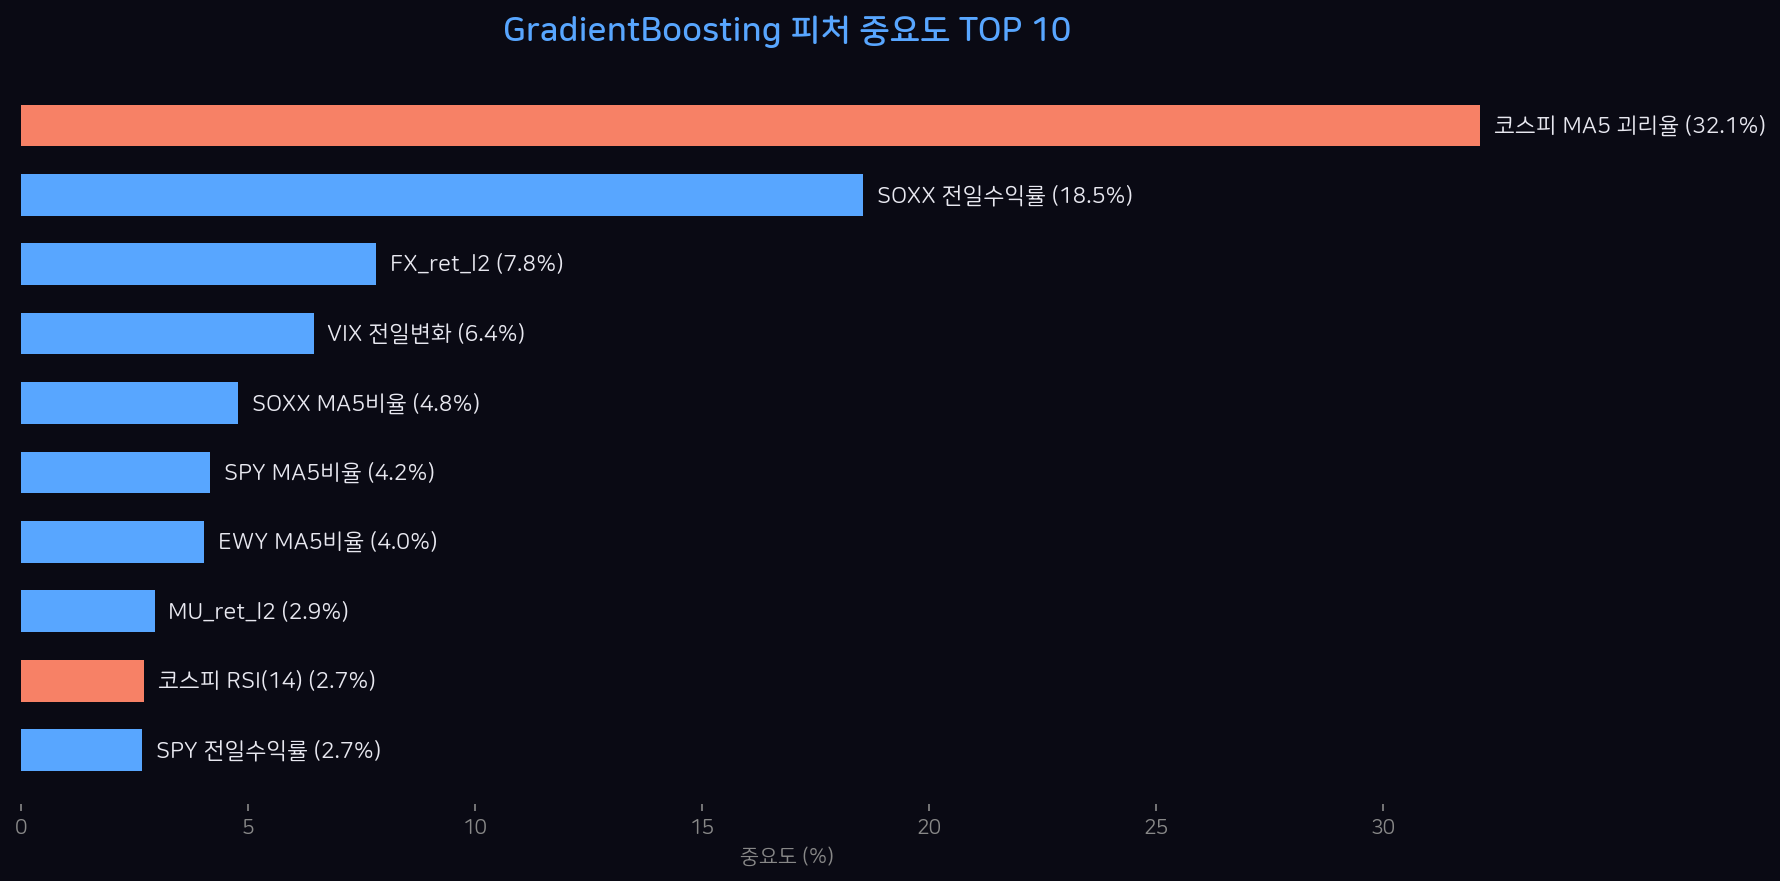
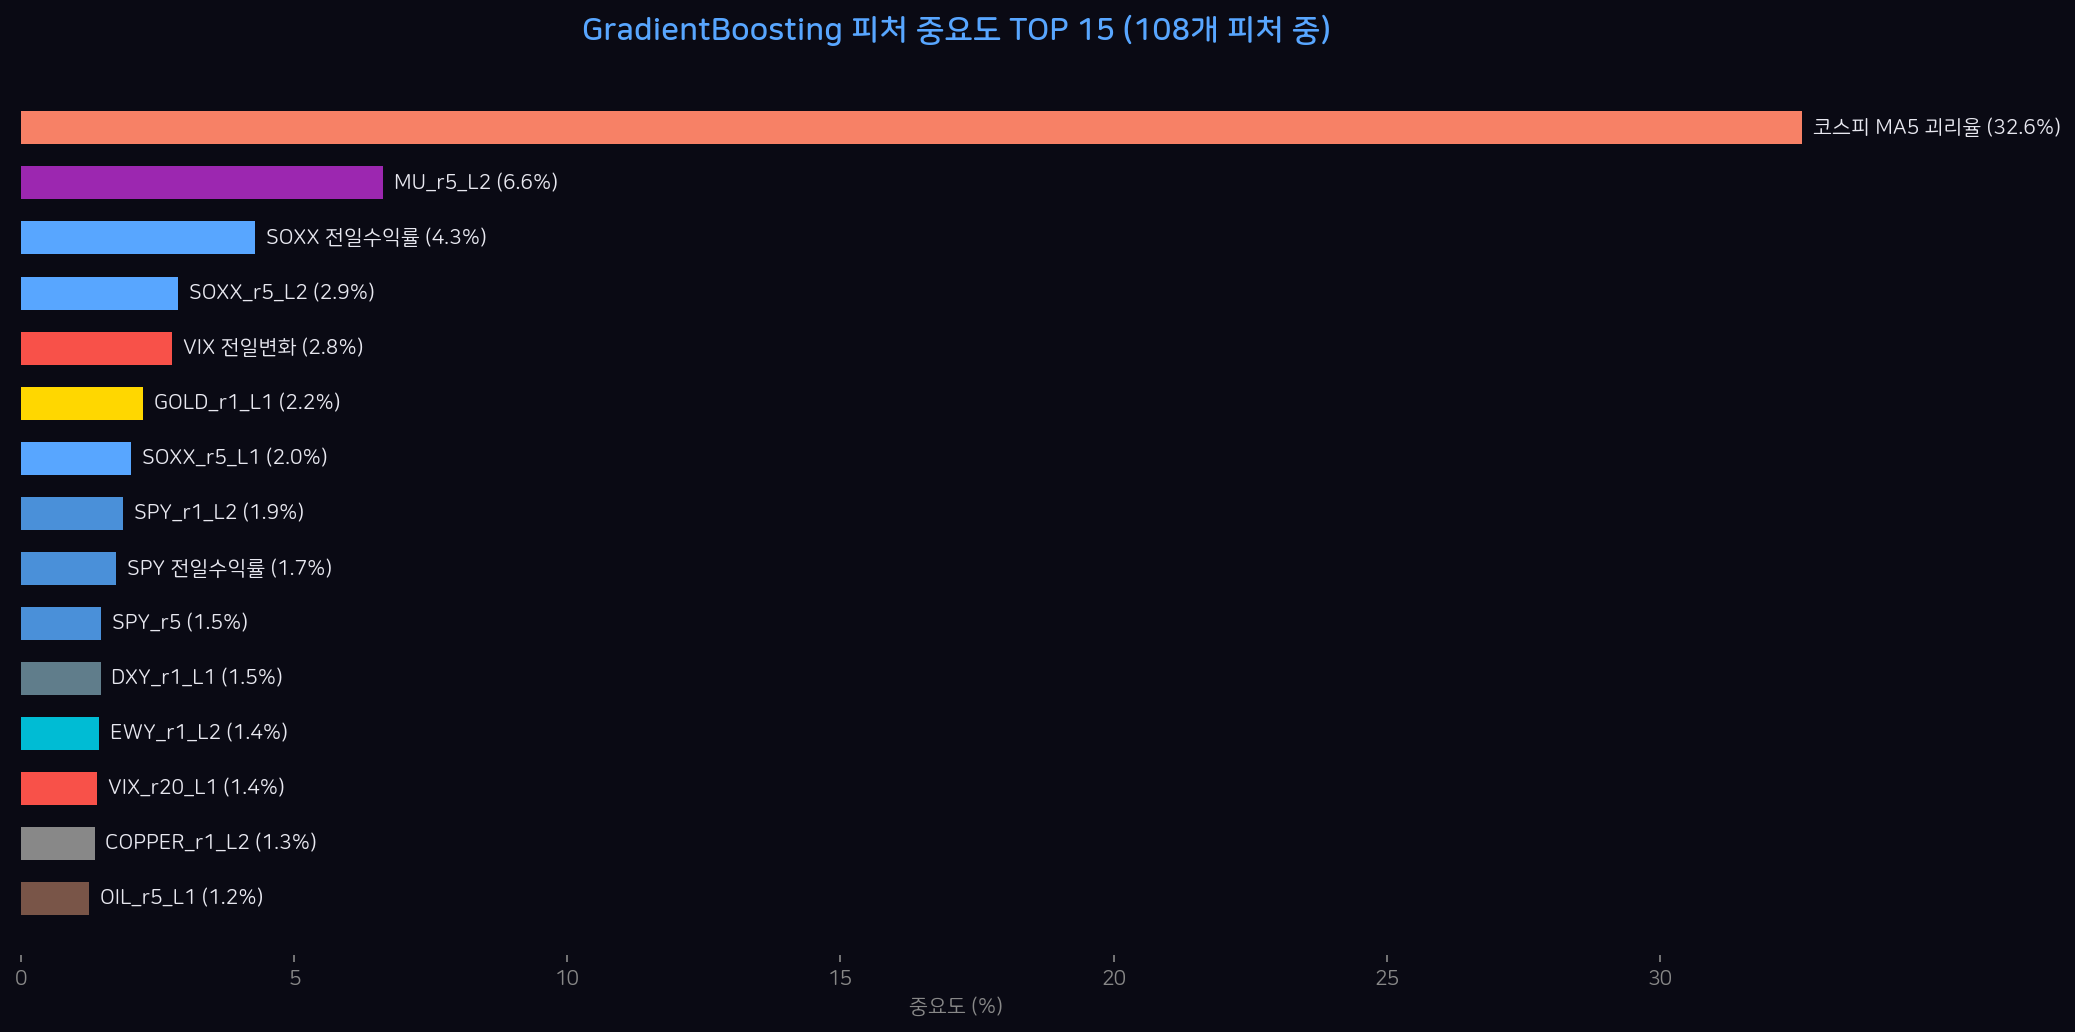
feat: 전문가 수준 업그레이드
- 데이터: 148일 → 484일(2년)
- 지표: 8개 → 13개 (달러인덱스, 10년금리, 원유, 금, 구리 추가)
- 피처: 44개 → 108개 (멀티에셋, 경기선행지표, 금리스프레드)
- 모델: 3개 → 4개 (LR, RF, GBM, 앙상블)
- 테스트: 30일 → 60일 (3개월)
- 차트 7장 재생성 (2년 데이터 기반)
- 학습곡선 차트 추가 (데이터 양 vs 성능)
- 글로벌 주식+매크로 동조화 차트
- 모바일 반응형 유지

diff --git a/ml-with-prompts.html b/ml-with-prompts.html
@@ -206,7 +206,7 @@ body{font-family:'Noto Sans KR',sans-serif;background:var(--bg);color:var(--text
 <!-- S5: 상관분석 -->
 <div class="slide">
 <h2 class="anim">Step 1. 상관분석 — 선행지표 발견</h2>
-<p class="anim2" style="margin-bottom:8px">전일 미국 데이터 → 당일 코스피 수익률 (148일 실측 데이터)</p>
+<p class="anim2" style="margin-bottom:8px">전일 미국 데이터 → 당일 코스피 수익률 (484일 실측 데이터, 13개 글로벌 지표)</p>
 <img src="images/chart_correlation.png" class="chart-full anim3" alt="상관분석">
 <div class="sn">5 / 22</div>
 </div>
@@ -440,6 +440,16 @@ subsample = 0.8         # 80%만 샘플링 (배깅 효과)</div>
 <p class="anim3" style="color:var(--text2);text-align:center;margin-top:4px">초록=적중, 빨강=오답 | 아래: 누적 적중률이 50%(랜덤)을 상회하면 모델이 유효</p>
 </div>
 
+<!-- S: 학습곡선 -->
+<div class="slide">
+<h2 class="anim">데이터가 많으면 더 정확한가?</h2>
+<img src="images/chart_learning_curve.png" class="chart-full anim2" alt="학습곡선">
+<div class="card anim3 mt">
+<p>💡 학습 정확도(파란)와 테스트 정확도(초록)의 <span class="highlight">갭이 줄어들면</span> = 과적합이 해소된다.</p>
+<p>현재 484일(2년) 데이터. 1,000일+(5년) 데이터면 더 안정적. <span class="warn">주가 예측에서 데이터 양은 정직하다.</span></p>
+</div>
+</div>
+
 <!-- S15: 전체 타임라인 -->
 <div class="slide">
 <h2 class="anim">전체 타임라인 — 실제로 걸린 시간</h2>
@@ -506,10 +516,10 @@ subsample = 0.8         # 80%만 샘플링 (배깅 효과)</div>
 <div class="anim2">
 <ul style="font-size:1.05rem;line-height:2.2">
 <li><span class="warn">R² 음수</span> — 수익률 크기 예측은 랜덤보다 못함. <strong>방향만</strong> 의미 있음</li>
-<li><span class="warn">148일 샘플</span> — 최소 500일+ 필요. 지금은 "시제품" 수준</li>
-<li><span class="warn">과적합 위험</span> — 피처 44개 vs 샘플 148개 → Lasso 피처 선택 필요</li>
+<li><span class="green">484일(2년) 데이터</span> — 13개 글로벌 지표, 108개 피처. 이상적으로는 5년+ 권장</li>
+<li><span class="warn">과적합 위험</span> — 피처 108개 vs 샘플 222개 → Lasso/SelectKBest 필요</li>
 <li><span class="warn">Regime Change</span> — 시장 구조가 바뀌면 모델이 무용지물 (코로나, 전쟁 등)</li>
-<li><span class="warn">82.5%</span> — 동전(50%)보다 훨씬 낫지만, 실전 수익 보장은 아님</li>
+<li><span class="warn">75% 앙상블</span> — 동전(50%)보다 낫지만, 실전 수익 보장은 아님. 방향 맞혀도 크기가 문제</li>
 </ul>
 </div>
 <div class="card anim3 mt">
